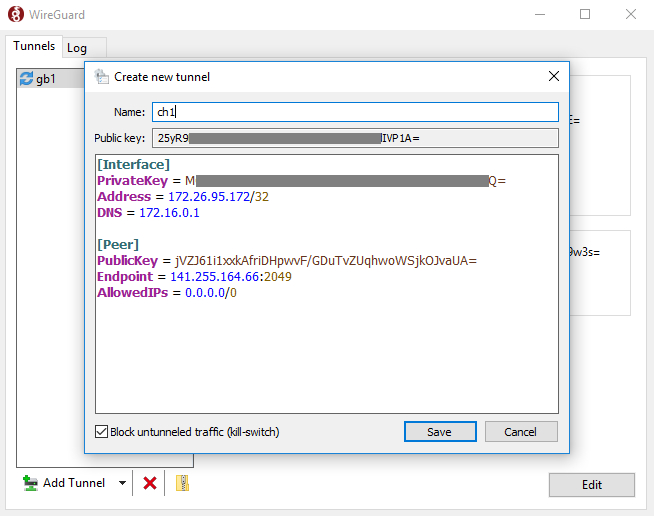
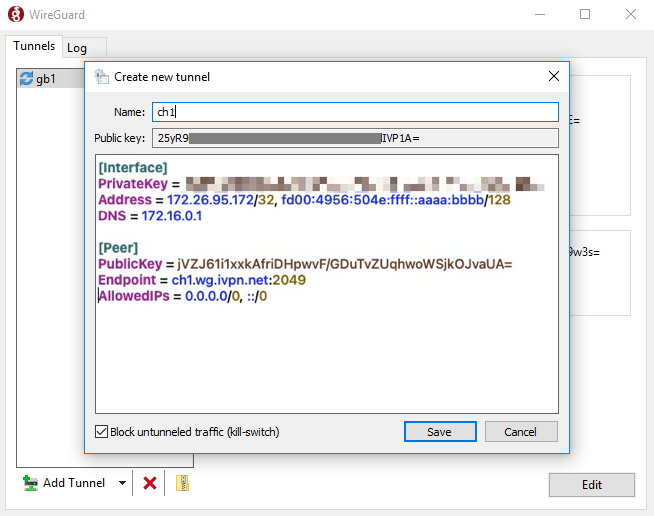
ipv6 documentation update

Changed region(s): [[0.1529, 0.3101, 0.8257, 0.4341], [0.1223, 0.4651, 0.7951, 0.5891]]

diff --git a/src/content/pages/setup/router/ddwrt-wireguard.md b/src/content/pages/setup/router/ddwrt-wireguard.md
@@ -11,7 +11,7 @@ weight: 13
 
 <div markdown="1" class="notice notice--warning">
 The DD-WRT UI is constantly evolving and there are multiple variations depending on the specific build and version of the firmware. You may not see the exact same options in the same order as below.<br><br>
-This guide was produced using DD-WRT v39715.
+This guide was produced using DD-WRT v46772.
 </div>
 
 1.  Navigate to the home page of your router - By default `192.168.1.1`.
@@ -20,19 +20,21 @@ This guide was produced using DD-WRT v39715.
 
 3.  Set the `MTU` value of the WireGuard tunnel to `1412`. 
 
-4.  Click the `Generate Key` button and go to the `Client Area` on the IVPN website to add the generated public key to the `Key Management` area. Make note of the **IP address** we assign to your public key and add it to the IP address field and enter 255.255.255.255 in the **Subnet Mask** field.
+4.  Click the `Generate Key` button and go to the `Client Area` on the IVPN website to add the generated public key to the `Key Management` area. Make note of the **IPv4 address** we assign to your public key and add it to the `IP address` field and `255.255.255.255` in the `Subnet Mask` field.
 
     <div markdown="1" class="notice notice--info">
     <strong>Hint:</strong> After clicking <code>Generate Key</code>, it may or may not be possible to copy the public key displayed on the <code>Tunnels</code> page. Click the <code>Save</code> and <code>Apply Settings</code> buttons, then go to <code>Administration</code>  > <code>Commands</code>  and enter wg in the <code>Commands</code>  box, then click <code>Run Commands</code> . This will display details of the WireGuard connection including the public key, which can be easily copied.<br><br>
     <img src="/images-static/uploads/install-openvpn-ddwrt-wireguard-010.png">
     </div>
 
-5.  Click the `Add Peer` button and enter the following peer configuration (as also shown in the screen shot below):
+5.  Set `Kill Switch` to `Enable`. This will prevent out-bound traffic when the VPN client is disconnected from the server.
+
+6.  Click the `Add Peer` button and enter the following peer configuration (as also shown in the screen shot below):
 
     *   **Peer Tunnel IP:** 0.0.0.0
     *   **Peer Tunnel DNS:** 172.16.0.1
     *   **Endpoint:** Enable
-    *   **Endpoint Address:** Enter an IVPN WireGuard server IP address (available via the **WireGuard Server List** in the Client Area) and choose a port:
+    *   **Endpoint Address:** Enter an IVPN WireGuard server hostname (available on the **[Server Status](/status/)** page) and choose a port:
         ```
         udp 2049
         udp 2050
@@ -43,8 +45,9 @@ This guide was produced using DD-WRT v39715.
         udp 58237
         ```
     *   **Allowed IPs:** 0.0.0.0/0
+    *   **Route Allowed IP's via tunnel**: Enable
     *   **Persistent Keepalive:** 25
-    *   **Peer Public Key:** Enter an IVPN WireGuard server public key (available via the **WireGuard Server List** in the Client Area)
+    *   **Peer Public Key:** Enter an IVPN WireGuard server public key (available on the **[Server Status](/status/)** page)
     *   **Use Pre-shared Key:** Disable
 
     ![](/images-static/uploads/install-openvpn-ddwrt-wireguard-020.png)
@@ -53,62 +56,11 @@ This guide was produced using DD-WRT v39715.
     <strong>Note:</strong> You are welcome to use whichever server you prefer. The <strong>Endpoint Address</strong> and <strong>Peer Public Key</strong> in the example above are specific to our server in Sweden.
     </div>
 
-6.  Click the `Save` button, then click the `Apply Settings` button.
-
-7.  In `Administration` > `Commands`, enter the following:  
-    
-    #### Save Startup:
-    ```
-    sleep 30
-    echo "Update route table on startup..."
-    WGSERVER=$(/usr/sbin/nvram get oet1_rem0)
-    WANGW=$(/usr/sbin/nvram get wan_gateway)
-    WANIF=$(/usr/sbin/nvram get wan_iface)
-    route add -host $WGSERVER gw $WANGW dev $WANIF
-    route del default
-    route add default dev oet1
-    ip route flush cache
-    mkdir -p /tmp/etc/config
-    ln -s /tmp/custom.sh /tmp/etc/config/wg-route-fix.wanup
-    echo "... Done route table update."
-    ```
-
-    #### Save Firewall:
-    ```
-    WANIF=$(/usr/sbin/nvram get wan_iface)
-    iptables -t nat -I POSTROUTING -o oet1 -j MASQUERADE
-    iptables -I FORWARD -i br0 -o $WANIF -m state --state NEW -j REJECT --reject-with icmp-host-prohibited
-    iptables -I FORWARD -i br0 -p tcp -o $WANIF -m state --state NEW -j REJECT --reject-with tcp-reset
-    ```
-
-    <div markdown="1" class="notice notice--info">
-    <strong>Note:</strong> The iptables commands above create a kill-switch firewall to prevent leaks. The routing table in DD-WRT is reset every time the <code>Apply Settings</code> button is clicked anywhere in the web interface and it takes time for the <strong>Custom Script</strong> to reapply the routing. If you prefer or do not mind leaks, please only enter
-    <pre>
-    iptables -t nat -I POSTROUTING -o oet1 -j MASQUERADE
-    </pre>
-    in the <strong>Save Firewall</strong> area.
-    </div>
-
-    #### Save Custom Script:
-    ```
-    #!/bin/sh
-    sleep 5
-    echo "Update route table on wanup ..."
-    WGSERVER=$(/usr/sbin/nvram get oet1_rem0)
-    WANGW=$(/usr/sbin/nvram get wan_gateway)
-    WANIF=$(/usr/sbin/nvram get wan_iface)
-    route add -host $WGSERVER gw $WANGW dev $WANIF
-    route del default
-    route add default dev oet1
-    ip route flush cache
-    echo "... Done route table update."
-    ```
+7.  Click the `Save` button, then click the `Apply Settings` button.
 
 8.  In `Setup` > `Basic Setup`, you might consider setting IVPN DNS servers in the **Network Address Server Settings (DHCP)** area:
 
     * **Static DNS 1:** 172.16.0.1
     * **Static DNS 2:** 198.245.51.147
 
-9.  Click the `Save` button, then click the `Apply Settings` button.
-
-10.  Reboot your router and wait for a minute or two for everything to settle, then reboot your computer system.
+9.  Save and Apply the changes, reboot your router and wait for a minute or two for everything to settle, then reboot your computer system.

diff --git a/src/content/pages/knowledgebase/general/do-you-offer-a-kill-switch-or-vpn-firewall.md b/src/content/pages/knowledgebase/general/do-you-offer-a-kill-switch-or-vpn-firewall.md
@@ -33,20 +33,6 @@ A traditional kill switch solution needs to react to all of these events and do 
 
 Native and third-party Windows services can use your internet connection even before the system is fully booted. Any application installed on your system has the opportunity to connect to a server on the Internet and to exchange data long before you are able to connect to a VPN. However, the IVPN Firewall can be configured to protect your system all the time, ensuring that no traffic will leak outside the VPN tunnel even when the IVPN Client, its service, or even Windows is not fully booted. Such traffic will just be filtered out until everything finishes loading, and the connection with the VPN is established. When using a traditional kill switch, it is only effective once the operating system starts the application.
 
-### IPv6
-
-As IPv6 becomes more popular, more and more ISP’s and Wi-Fi hotspots around the world allocate an IPv6 subnetwork for their clients along with an IPv4 address.
-
-According to the Google IPv6 adoption statistics, 14.5% of all US traffic is IPv6. Some countries, such as Belgium have an adoption rate exceeding 30%.
-
-It is important to understand that when IPv6 is enabled on the network you are connected to it will take precedence over IPv4 for all of the connections to hosts with IPv6 support.
-
-This IPv6 traffic will most likely silently bypass your VPN tunnel.
-
-As a result if you have no control over the configuration of the router you are connected to (e.g. a public Wi-Fi hotspot), or when the default configuration of your router is set to announce any IPv6 network your ISP has allocated to you and you haven’t disabled IPv6 in your Windows OS (which is enabled by default), you may find that you have IPv6 support which is a major potential threat to your privacy.
-
-When the IVPN Firewall is enabled it is impossible for any IPv6 traffic to leak outside of the VPN tunnel, giving you absolute peace of mind.
-
 ### WebRTC
 
 WebRTC (Web Real-Time Communication) is an API drafted by the W3C that supports browser-to-browser applications for voice calling, video chat, and P2P file sharing (without the need of either internal or external plugins). WebRTC implements STUN (Session Traversal Utilities for Nat), a protocol that allows the discovery of your externally assigned IP address (to facilitate the applications above).
@@ -63,4 +49,4 @@ The IVPN Firewall ensures that if the VPN client, any part of the tunnel or Wind
 
 ### Conclusion
 
-The IVPN firewall is the most secure solution available, far more than any 'kill switch' solution. From ensuring your privacy at boot time to blocking IPv6 and protecting against leaks during a software crash, you can always rely on the IVPN firewall to protect your privacy today and into the future.
+The IVPN firewall is the most secure solution available, far more than any 'kill switch' solution. From ensuring your privacy at boot time to protecting against leaks during a software crash, you can always rely on the IVPN firewall to protect your privacy today and into the future.

diff --git a/src/content/pages/setup/macos-wireguard.md b/src/content/pages/setup/macos-wireguard.md
@@ -22,7 +22,7 @@ To use WireGuard on macOS, we recommend downloading IVPN's <a href="/apps-macos/
     [Peer] 
     PublicKey = 
     Endpoint = 
-    AllowedIPs = 0.0.0.0/0 
+    AllowedIPs = 0.0.0.0/0, ::/0
     ```
 
     <div markdown="1" class="notice notice--warning">
@@ -31,11 +31,13 @@ To use WireGuard on macOS, we recommend downloading IVPN's <a href="/apps-macos/
 
 4. If you would like your computer to automatically connect to the WireGuard server as soon as either (or both) Ethernet or Wi-Fi network adapter becomes active, check the relevant <strong>'On-Demand'</strong> checkboxes.
 
-5.  Copy the <strong>Public key</strong> and go to the <strong>Client Area</strong> on the IVPN website to add the generated public key to the <strong>Key Management</strong> area. Make note of the IP address we assign to your public key. Beside the <strong>Address</strong> line in the new tunnel window, put a space after the <strong>'='</strong> sign, enter the IP address we have assigned, and add /32 to the end.
+5.  Copy the <strong>Public key</strong> and go to the <strong>Client Area</strong> on the IVPN website to add the generated public key to the <strong>Key Management</strong> area. Make note of the IP addresses we assign to your public key. Beside the <strong>Address</strong> line in the new tunnel window, put a space after the <strong>'='</strong> sign, enter the IPv4 and IPv6 IP addresses we have assigned separated with a comma and ending with /32 & /128 respectively.
 
-6.  Beside <strong>PublicKey</strong> in the <strong>[Peer]</strong> section, put a space after the <strong>'='</strong> sign, and enter an IVPN WireGuard server public key (available via the **WireGuard Server List** in the **Client Area**).
+6.  Beside <strong>PublicKey</strong> in the <strong>[Peer]</strong> section, put a space after the <strong>'='</strong> sign, and enter an IVPN WireGuard server public key (available on the **[Server Status](/status/)** page).
 
-7. Beside <strong>Endpoint</strong> in the <strong>[Peer]</strong> section, put a space after the <strong>'='</strong> sign, enter an IVPN WireGuard server <strong>IP address:port</strong>. The IP address of the server is available via the **WireGuard Server List** in the **Client Area**. You can choose any of the following Port numbers - **2049**, **2050**, **53**, **30587**, **41893**, **48574**, **58237**.
+7. Beside <strong>Endpoint</strong> in the <strong>[Peer]</strong> section, put a space after the <strong>'='</strong> sign, enter an IVPN WireGuard server <strong>hostname:port</strong>.
+The hostname of the servers can be found on the **[Server Status](/status/)** page. 
+You can use any of the following Port numbers - **2049**, **2050**, **53**, **30587**, **41893**, **48574**, **58237**.
 
     ![](/images-static/uploads/macos-wireguard-010.png)
 

diff --git a/src/content/pages/setup/linux-wireguard.md b/src/content/pages/setup/linux-wireguard.md
@@ -42,7 +42,7 @@ platform: linux
     Be sure to copy the PUBLIC key and not the PRIVATE key. The PRIVATE key must always be kept a carefully guarded secret.
     </div>
 
-3.  Make note of the `IP Address` beside your newly added public key on the WireGuard tab in the Client Area. This is the IP address your computer system will have on our internal network. It will be in the form `172.x.y.z`.
+3.  Make note of the `IPv4 address` and `IPv6 address` beside your newly added public key on the WireGuard tab in the Client Area. These are the IP addresses your computer system will have on our internal network that will be in the `172.x.y.z` & `fd00:4956:504e:ffff::aaaa:bbbb` format respectively.
 
 4.  WireGuard uses the UDP protocol and IVPN offers different ports to connect on. Choose a port:
 
@@ -56,7 +56,7 @@ platform: linux
     udp 58237
     ```
 
-5.  Choose a WireGuard server to connect to from our list. To see our server list go to the `VPN Accounts` page, click the `WireGuard` tab. Go to `WireGuard Server List` which is located under `Tools`. Remember the hostname and the public key of the server.
+5.  Choose a WireGuard server to connect to from our **[Server Status](/status/)** page. Remember the hostname and the public key of the server.
 
 6.  To create a WireGuard configuration file for the connection you will need the following information:
 
@@ -67,10 +67,10 @@ platform: linux
     abcdefghijklmnopqrstuvwxyz0123456789=
     ```
 
-    Your assigned IP address from step #3 above.
+    Your assigned IP addresses from step #3 above.
 
     ```
-    172.x.y.z
+    172.x.y.z, fd00:4956:504e:ffff::aaaa:bbbb
     ```
 
     The server port from step #4 above.
@@ -100,18 +100,18 @@ platform: linux
     ```
     [Interface]
     PrivateKey = abcdefghijklmnopqrstuvwxyz0123456789=
-    Address = 172.x.y.z/32
+    Address = 172.x.y.z/32, fd00:4956:504e:ffff::x:y/128
     DNS = 172.16.0.1
     [Peer]
     PublicKey = JPT1veXLmasj2uQDstX24mpR7VWD+GmV8JDkidkz91Q=
     Endpoint = us-tx1.wg.ivpn.net:2049
-    AllowedIPs = 0.0.0.0/0
+    AllowedIPs = 0.0.0.0/0, ::/0
     ```
 
     Press `Ctrl + x` to save the file and exit from the nano editor.
 
     <div markdown="1" class="notice notice--info">
-    - Add '/32' to the end of your assigned IP address.<br>
+    - Add '/32' & '/128' to the end of your assigned IPv4 and IPv6 addresses respectively.<br>
     - Add the chosen port at the end of the hostname with a prefix of ':'
     </div>
 
@@ -139,10 +139,11 @@ platform: linux
 
     Press `Ctrl + x` to save the file and exit from the nano editor.
 
-10. Check your external IP to verify that you are connected.
+10. Check your external IPv4 & IPv6 IP addresses to verify that you are connected to IVPN.
 
     ```
     $ curl ifconfig.co
+    $ curl -6 ifconfig.co
     ```
 
 11. To disconnect run:

diff --git a/src/content/pages/knowledgebase/linux/linux-how-do-i-prevent-vpn-leaks-using-iptables.md b/src/content/pages/knowledgebase/linux/linux-how-do-i-prevent-vpn-leaks-using-iptables.md
@@ -15,7 +15,7 @@ weight: 30
 We recommend using our <a href="/apps-linux/">Linux CLI app</a> that offers an easy-to-use built-in Firewall solution that protects you from both IP and traffic leaks. Read on, if you would like to have a more granular Firewall configuration or prefer to use NetworkManager or a different VPN client.
 </div>
 
-If you're using stock OpenVPN in Linux, especially with Network Manager, leaks are possible if the VPN connection fails, or is temporarily interrupted. Also, if your ISP provides IPv6 connectivity, but your VPN service does not, traffic to IPv6-capable sites will bypass the VPN tunnel, and identify you to websites. Given that, it's prudent to have firewall (iptables) rules that: 1) restrict traffic to the VPN tunnel; 2) allow direct connections only to the VPN server; and 3) block IPv6 traffic.
+If you're using stock OpenVPN in Linux, especially with Network Manager, leaks are possible if the VPN connection fails, or is temporarily interrupted. Given that, it's prudent to have firewall (iptables) rules that: 1) restrict traffic to the VPN tunnel; 2) allow direct connections only to the VPN server.
 
 There are many ways to manage iptables rules. The old-school standard is shell scripting. And indeed, OpenVPN has hooks to run scripts, for routing and iptables, when the VPN connects and disconnects. That's convenient, certainly, but it's also complicated, and it requires editing VPN configuration files. Most VPN services use the "redirect-gateway def1" option to handle routing, but they don't touch iptables. So you need to disable "redirect-gateway def1", and handle routing changes in your scripts.
 
@@ -107,36 +107,3 @@ Now connect (or reconnect) the VPN. If it doesn't connect, restore the default r
 ```
 
 If the VPN connects now, there must be errors in the iptables rules.
-
-Once the basic IPv4 setup is working, you can deal with IPv6. If you have IPv6 service from your ISP, and want to use IPv6 when you're not using VPNs, just create new IPv6 rules for the VPN connection:
-
-```
-# nano /etc/iptables/vpn-rules.v6
-```
-
-> *filter
-> 
-> :INPUT DROP [0:0]
-> :FORWARD DROP [0:0]
-> :OUTPUT DROP [0:0]
-> 
-> COMMIT
-
-Then load the IPv6 VPN rules:
-
-```
-# ip6tables-restore < /etc/iptables/vpn-rules.v6
-```
-
-Using "iptables-restore" to restore "vpn-rules.v6" is a classic fail, by the way.
-
-If you don't use VPN services that route IPv6, and don't need it, you may want to just disable it:
-
-```
-# echo 'net.ipv6.conf.all.disable_ipv6=1' | sudo tee -a /etc/sysctl.conf
-# echo 'net.ipv6.conf.default.disable_ipv6=1' | sudo tee -a /etc/sysctl.conf
-# echo 'net.ipv6.conf.lo.disable_ipv6=1' | sudo tee -a /etc/sysctl.conf
-# sudo sysctl -p
-```
-
-You can reverse those changes by editing `/etc/sysctl.conf`, and deleting those lines.

diff --git a/src/content/pages/setup/router/opnsense.md b/src/content/pages/setup/router/opnsense.md
@@ -27,7 +27,7 @@ This guide was produced using OPNSense 20.1.
 
 1.  Log in to the [IVPN Client Area](/account/).
 
-2.  Choose a WireGuard server to connect to from our list. To see our server list go to the `VPN Accounts` page in the Client Area, click the `WireGuard` tab. Go to `WireGuard Server List`, which is located under **Tools**. Make note of the hostname and the public key of the server.
+2.  Choose a WireGuard server to connect to from our [Server Status](/status/) page. Make note of the hostname and the public key of the server.
 
 3.  In the OPNSense web interface, go to `VPN > WireGuard > Endpoints` and click the `+` to add a VPN server location (Endpoint/Peer):
 
@@ -36,7 +36,7 @@ This guide was produced using OPNSense 20.1.
     <strong>Public Key:</strong> The server public key is available from the server list in the step above.<br>
     <strong>Shared Secret:</strong> Leave it blank.<br>
     <strong>Alloweb IPs:</strong> 0.0.0.0/0<br>
-    <strong>Endpoint Address:</strong> The server IP address is available from the server list in the step above.<br>
+    <strong>Endpoint Address:</strong> The server hostname is available from the server list in the step above.<br>
     <strong>Endpoint Port:</strong> IVPN offers different ports to connect on: 53, 2049, 2050, 30587, 41893, 48574, and 58237<br>
     <strong>Keepalive:</strong> 25
     </div>
@@ -72,7 +72,7 @@ This guide was produced using OPNSense 20.1.
     Be sure to copy the <strong>Public Key</strong> and not the <strong>Private Key</strong>. The <strong>Private Key</strong> must always be kept a carefully guarded secret.
     </div>
 
-4.  Make note of the IP Address beside your newly added public key on the WireGuard tab in the Client Area. This is the IP address your computer system will have on our internal network. It will be in the form **172.x.y.z**.
+4.  Make note of the IPv4 Address beside your newly added public key on the WireGuard tab in the Client Area. This is the IP address your computer system will have on our internal network. It will be in the form **172.x.y.z**.
 
 5.  Go back to the OPNSense web interface and the local interface that is being edited. Remove the temporary placeholder from the **Tunnel Address** field and enter the IP address from the step above plus the /32 netmask **(172.x.y.z/32)**.
 

diff --git a/src/content/pages/setup/windows-10-wireguard.md b/src/content/pages/setup/windows-10-wireguard.md
@@ -29,9 +29,9 @@ To use WireGuard on Windows, we recommend downloading IVPN's <a href="/apps-wind
     Warning: Keep the PrivateKey a closely guarded secret, do not share it with anyone, and do not post it on the Internet.
     </div>
 
-4.  Copy the `Public key` and go to the `Client Area` on the IVPN website to add the generated public key to the `Key Management` area. Make note of the IP address we assign to your public key. Beside the `Address` line in the new tunnel window, put a `space` after the = sign, enter the IP address we have assigned, and add /32 to the end.
+4.  Copy the `Public key` and go to the `Client Area` on the IVPN website to add the generated public key to the `Key Management` area. Make note of the IP addresses we assign to your public key. Beside the `Address` line in the new tunnel window, put a `space` after the = sign, enter the IPv4 and IPv6 IP addresses we have assigned separated with a comma and ending with /32 & /128 respectively.
 
-5.  Beside `Endpoint` in the `[Peer]` section, put a space after the = sign, enter an IVPN WireGuard server IP address (available via the **WireGuard Server List** in the Client Area), and choose a port:
+5.  Beside `Endpoint` in the `[Peer]` section, put a space after the = sign, enter an IVPN WireGuard server hostname (available on the **[Server Status](/status/)** page), and choose a port:
 
     ```
     udp 2049
@@ -43,7 +43,7 @@ To use WireGuard on Windows, we recommend downloading IVPN's <a href="/apps-wind
     udp 58237
     ```
 
-6.  Beside PublicKey in the [Peer] section, put a space after the = sign, and enter an IVPN WireGuard server public key (available via the WireGuard Server List in the Client Area).
+6.  Beside PublicKey in the [Peer] section, put a space after the = sign, and enter an IVPN WireGuard server public key (available on the **[Server Status](/status/)** page).
 
 7.  Choose whether or not you prefer to use the **kill-switch** feature by leaving or removing the check mark at the bottom of the new tunnel window and click the `Save` button.
 

diff --git a/src/content/pages/setup/router/pfsense-wireguard.md b/src/content/pages/setup/router/pfsense-wireguard.md
@@ -16,10 +16,10 @@ weight: 31
 1. In your pfSense device, navigate  to `VPN` > `WireGuard` and click `+ Add Tunnel`.
 2. Check `Enabled`.
 3. Enter a `Description`, like **IVPN WG**.
-4. Upload the **Private key** and obtain a client IP address:
+4. Upload the **Public key** and obtain a client IP address:
     - Click the `Generate` key button, copy the **Public key**, then go to the **IVPN Account Area** by logging in to the [ivpn.net website](https://www.ivpn.net/account/login/).
     - Click the `WireGuard` tab in the **IVPN Account Area** and click `Add a new key`.
-    - Paste the **Public key** and click the `Add` button to obtain a **172.x.y.z** client IP address.
+    - Paste the **Public key** and click the `Add` button to obtain a **172.x.y.z** client IPv4 address.
 5. Enter the client IP address into `Address` field with `/32` appended, like **172.x.y.z/32**
 <div markdown="1" class="notice notice--warning">
 Be sure to copy the <strong>Public Key</strong> and not the <strong>Private Key</strong>. The <strong>Private Key</strong> must always be kept a carefully guarded secret.

diff --git a/src/content/pages/knowledgebase/general/do-you-offer-ipv6.md b/src/content/pages/knowledgebase/general/do-you-offer-ipv6.md
@@ -1,13 +1,13 @@
 ---
-title: Do you offer IPv6? - IVPN Help
-h1: Do you offer IPv6?
-url: /knowledgebase/general/do-you-offer-ipv6/
+title: Do you support IPv6? - IVPN Help
+h1: Do you support IPv6?
+url: /knowledgebase/general/do-you-support-ipv6/
 sections:
     - general
 sectionTitle: General
 layout: help-details
 weight: 210
 ---
-# Do you offer IPv6?
+# Do you support IPv6?
 
-Not yet, but we are currently testing various solutions. We have successfully configured test OpenVPN servers to provide IPv6 connectivity to customers (6in4) but we are still exploring the requirement for native IPv6 connectivity on our servers.
+Yes, our service is fully compatible with IPv6.

diff --git a/src/content/pages/knowledgebase/linux/linux-kill-switch-using-the-uncomplicated-firewall-ufw.md b/src/content/pages/knowledgebase/linux/linux-kill-switch-using-the-uncomplicated-firewall-ufw.md
@@ -72,14 +72,3 @@ This guide shows you how to setup a firewall (similar to a 'kill switch') using 
     ```
     # sudo ufw reset
     ```
-
-You can additionally disable IPv6:
-
-```
-# echo 'net.ipv6.conf.all.disable_ipv6=1' | sudo tee -a /etc/sysctl.conf
-# echo 'net.ipv6.conf.default.disable_ipv6=1' | sudo tee -a /etc/sysctl.conf
-# echo 'net.ipv6.conf.lo.disable_ipv6=1' | sudo tee -a /etc/sysctl.conf
-# sudo sysctl -p
-```
-
-...and reverse those changes by editing /etc/sysctl.conf, and deleting those lines.

diff --git a/src/content/pages/knowledgebase/general/wireguard-faq.md b/src/content/pages/knowledgebase/general/wireguard-faq.md
@@ -85,7 +85,7 @@ weight: 480
     Port Forwarding cannot be used with WireGuard at this time.
 
 13. Does WireGuard support IPv6?
-    IVPN does not support IPv6 across any VPN protocols, WireGuard included.
+    Yes.
 
 14. Can I use Multi-hop with WireGuard?
     Multi-hop is not available when used with WireGuard at this time.
